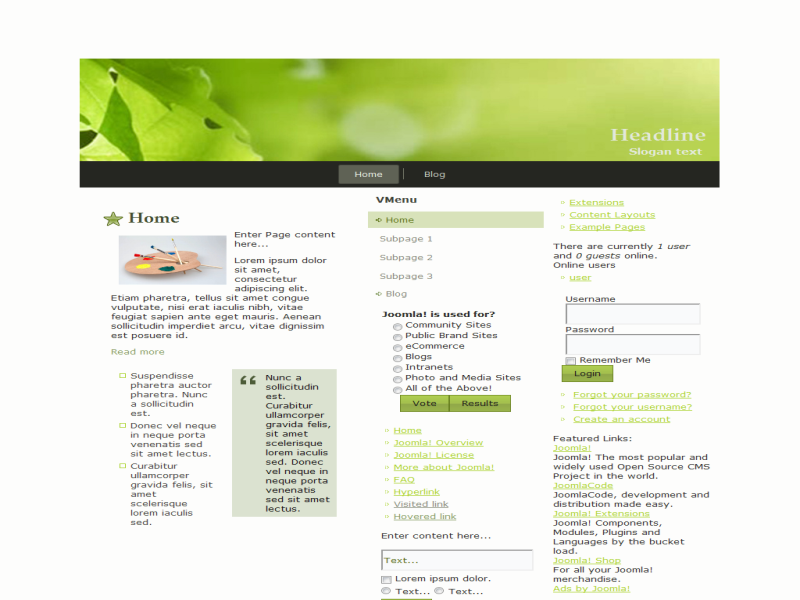
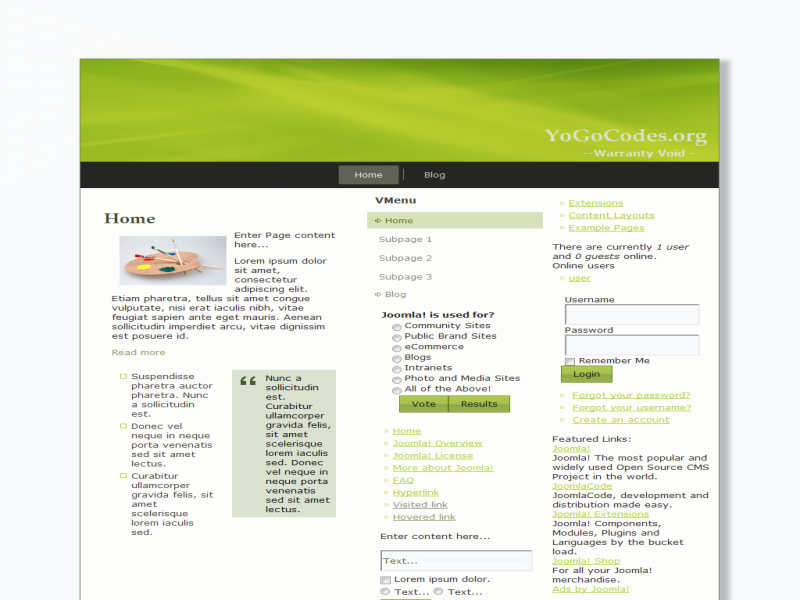
updated layout

diff --git a/css/template.css b/css/template.css
@@ -1,6 +1,6 @@
 #art-main
 {
-  background: #FDFDFC;
+  background: #F9FAFB url('../images/pageglare.png') no-repeat fixed;
   margin: 0 auto;
   font-size: 13px;
   font-family: Verdana, Geneva, Arial, Helvetica, Sans-Serif;
@@ -363,7 +363,7 @@ li p, .art-postcontent li p, .art-blockcontent li p
   top: 115px;
   left: 97.65%;
   line-height: 100%;
-  margin-left: -120px !important;
+  margin-left: -203px !important;
   -webkit-transform: rotate(0deg);
   -moz-transform: rotate(0deg);
   -o-transform: rotate(0deg);
@@ -381,7 +381,7 @@ li p, .art-postcontent li p, .art-blockcontent li p
   text-decoration: none;
   padding: 0;
   margin: 0;
-  color: #E2E8D9 !important;
+  color: #DBE2D0 !important;
   white-space: nowrap;
 }
 
@@ -390,10 +390,10 @@ li p, .art-postcontent li p, .art-blockcontent li p
   display: inline-block;
   position: absolute;
   min-width: 50px;
-  top: 150px;
-  left: 97.02%;
+  top: 152px;
+  left: 95.44%;
   line-height: 100%;
-  margin-left: -91px !important;
+  margin-left: -136px !important;
   -webkit-transform: rotate(0deg);
   -moz-transform: rotate(0deg);
   -o-transform: rotate(0deg);
@@ -412,12 +412,16 @@ li p, .art-postcontent li p, .art-blockcontent li p
   text-decoration: none;
   padding: 0;
   margin: 0;
-  color: #E4EADC !important;
+  color: #DDE4D3 !important;
 }
 
 .art-sheet
 {
   background: #FDFDFC;
+  -webkit-box-shadow: 8px 8px 10px 5px rgba(0, 0, 0, 0.25);
+  -moz-box-shadow: 8px 8px 10px 5px rgba(0, 0, 0, 0.25);
+  box-shadow: 8px 8px 10px 5px rgba(0, 0, 0, 0.25);
+  border: 1px solid #7C806F;
   margin: 100px auto 0;
   position: relative;
   cursor: auto;
@@ -1668,23 +1672,6 @@ pre
   font-size: 80%;
   text-align: right;
   margin: 0;
-}
-
-.art-postheadericon:before
-{
-  content: url('../images/postheadericon.png');
-  margin-right: 6px;
-  position: relative;
-  display: inline-block;
-  vertical-align: middle;
-  font-size: 0;
-  line-height: 0;
-  bottom: auto;
-}
-
-.opera .art-postheadericon:before
-{
-  bottom: 0;
 }
 
 .art-postheader

diff --git a/css/editor.css b/css/editor.css
@@ -1,6 +1,6 @@
 body
 {
[2 lines of base64/hex data omitted]
   margin: 0 auto;
   font-size: 13px;
   font-family: Verdana, Geneva, Arial, Helvetica, Sans-Serif;

diff --git a/functions.php b/functions.php
@@ -32,14 +32,14 @@ if (!defined('_ARTX_FUNCTIONS')) {
             $data = array('content' => $data);
         $classes = isset($data['classes']) && strlen($data['classes']) ? $data['classes'] : '';
                     artxFragmentBegin("<article class=\"art-post" . $classes . "\">");
-            artxFragmentBegin("<h2 class=\"art-postheader\"><span class=\"art-postheadericon\">");
+            artxFragmentBegin("<h2 class=\"art-postheader\">");
             if (isset($data['header-text']) && strlen($data['header-text'])) {
                 if (isset($data['header-link']) && strlen($data['header-link']))
                     artxFragmentContent('<a href="' . $data['header-link'] . '">' . $data['header-text'] . '</a>');
                 else
                     artxFragmentContent($data['header-text']);
             }
-            artxFragmentEnd("</span></h2>");
+            artxFragmentEnd("</h2>");
             artxFragmentBegin("<div class=\"art-postheadericons art-metadata-icons\">");
             if (isset($data['metadata-header-icons']) && count($data['metadata-header-icons']))
                 foreach ($data['metadata-header-icons'] as $icon)

diff --git a/index.php b/index.php
@@ -62,7 +62,7 @@ JHtml::_('behavior.framework', true);
 <h1 class="art-headline" data-left="97.65%">
     <a href="<?php echo $document->baseurl; ?>/"><?php echo $this->params->get('siteTitle'); ?></a>
 </h1>
-<h2 class="art-slogan" data-left="97.02%"><?php echo $this->params->get('siteSlogan'); ?></h2>
+<h2 class="art-slogan" data-left="95.44%"><?php echo $this->params->get('siteSlogan'); ?></h2>
 
 
             </div>
@@ -135,9 +135,6 @@ JHtml::_('behavior.framework', true);
 <footer class="art-footer clearfix"><?php echo $view->position('position-27', 'art-nostyle'); ?></footer>
 
     </div>
-    <p class="art-page-footer">
-        <span id="art-footnote-links"><a href="http://www.artisteer.com/?p=joomla_templates" target="_blank">Joomla template</a> created with Artisteer.</span>
-    </p>
 </div>
 
 
